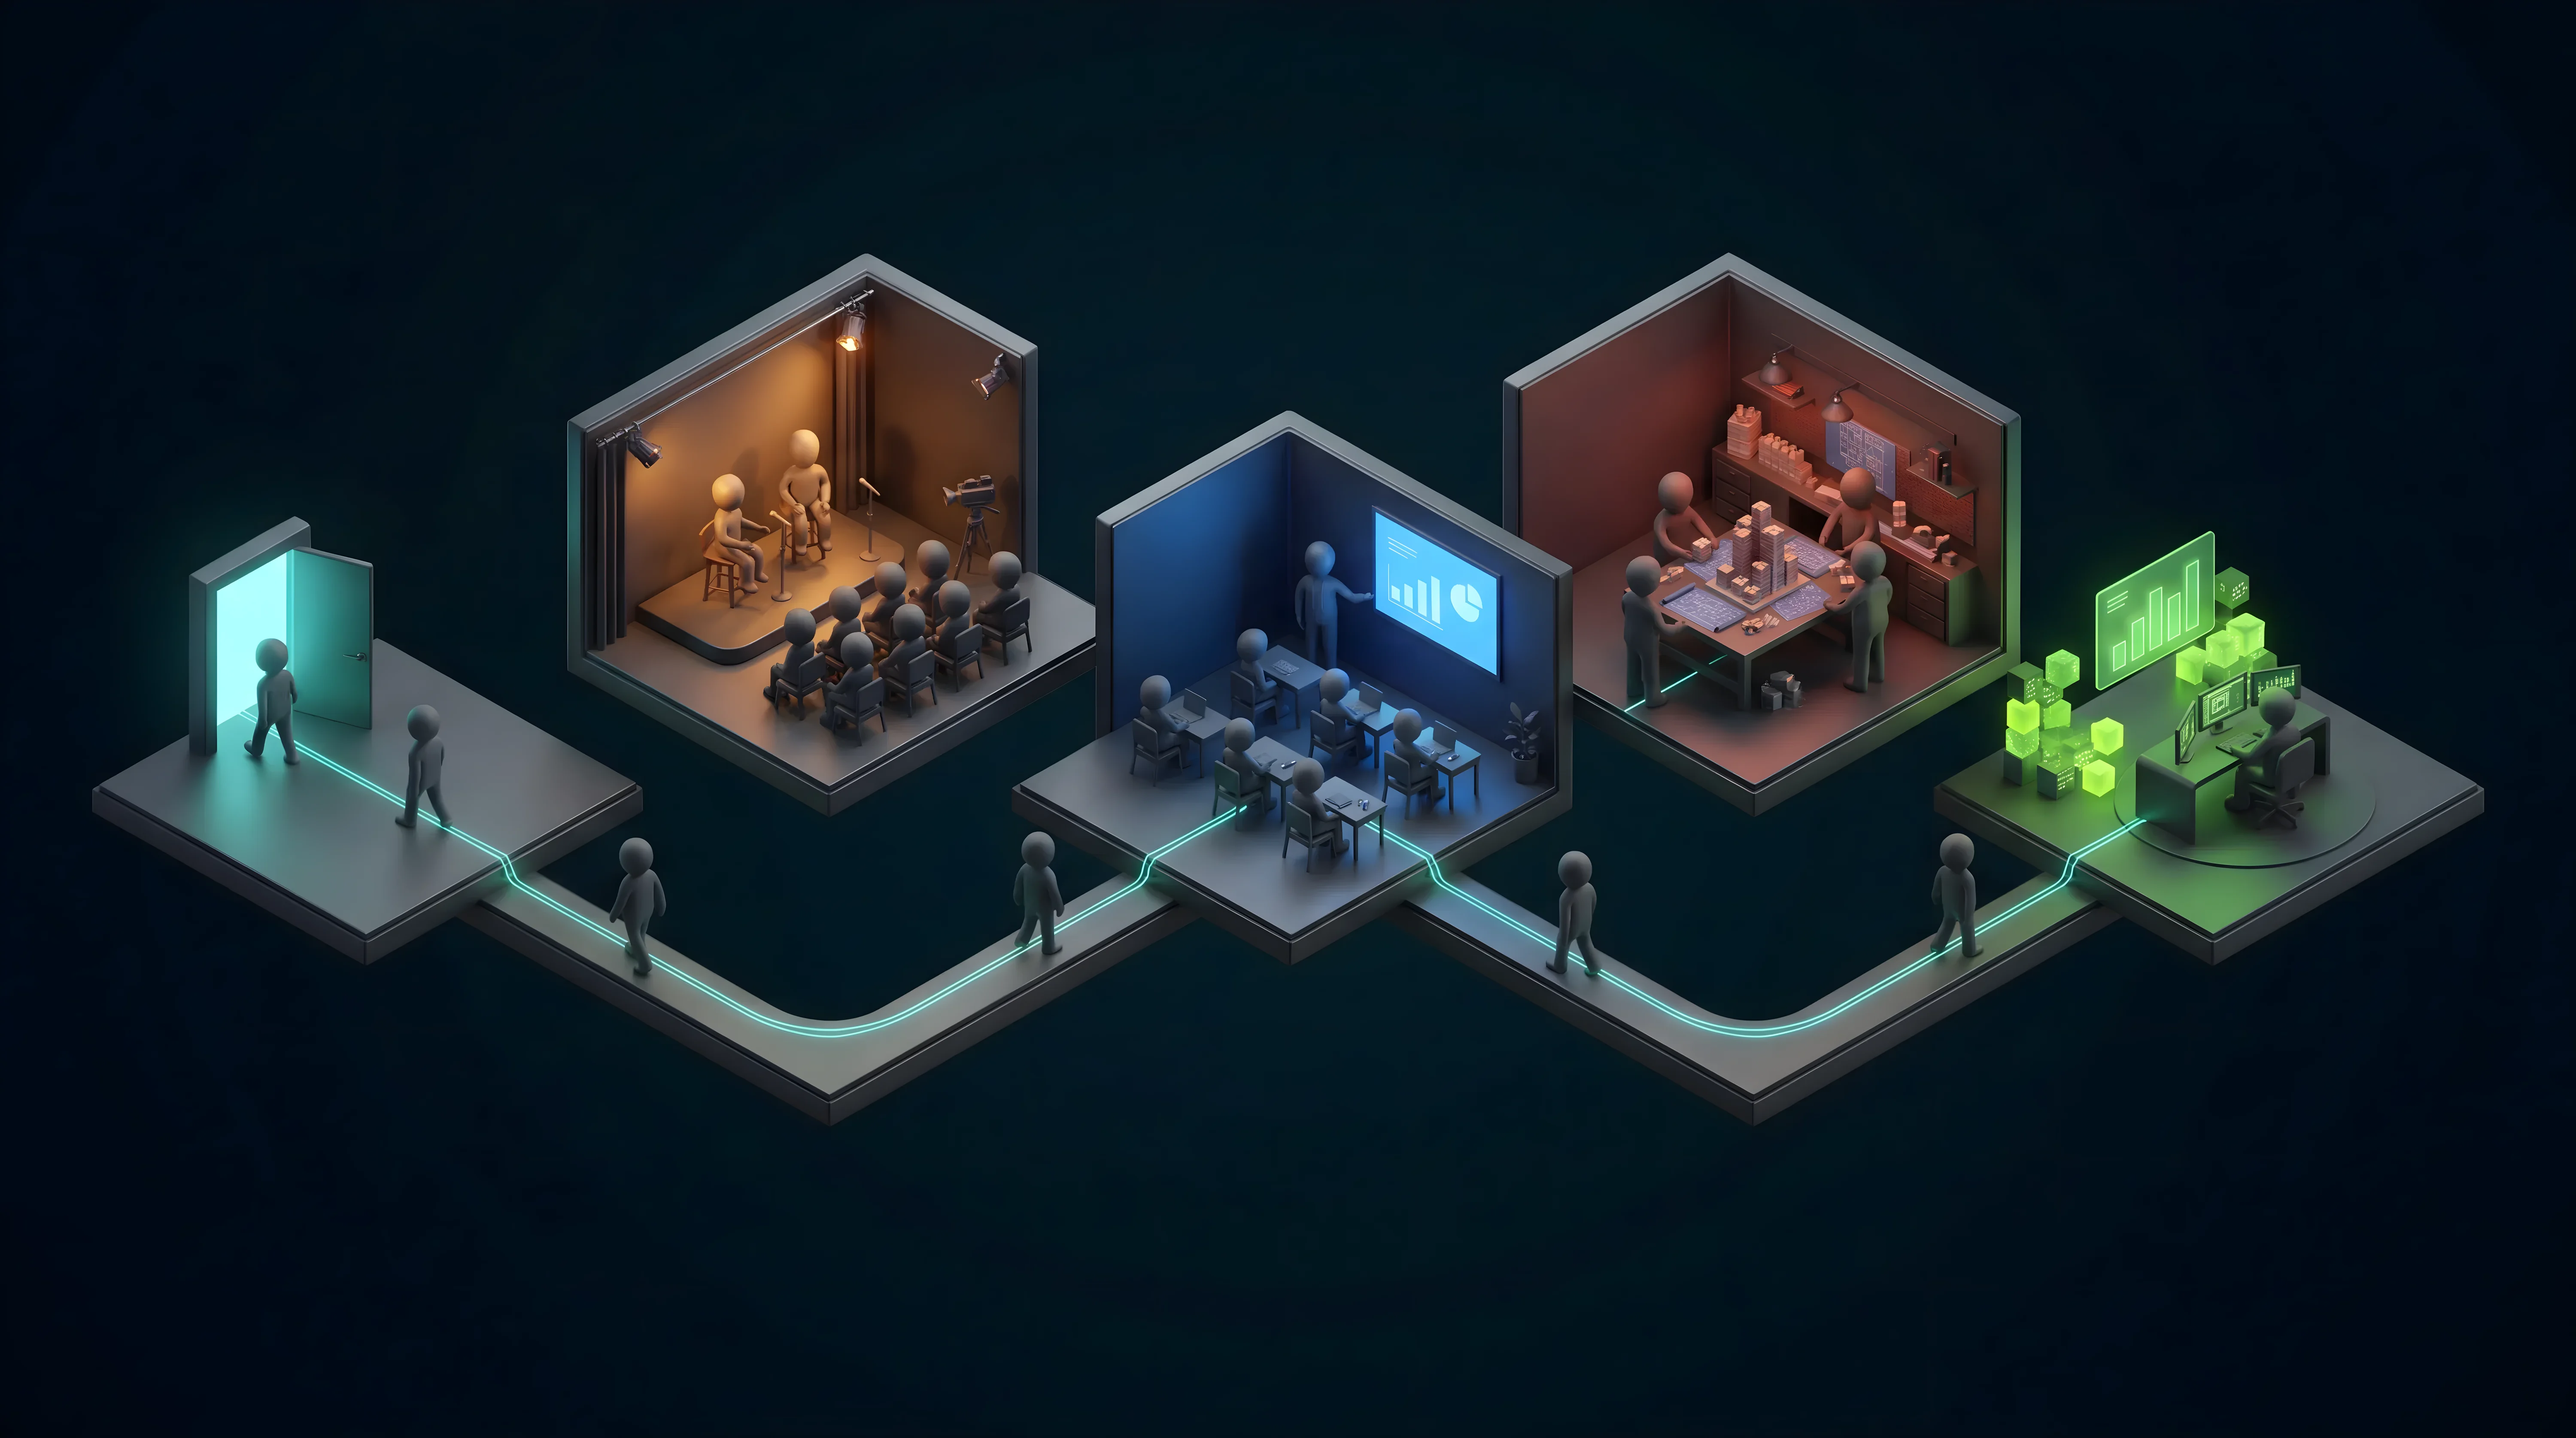
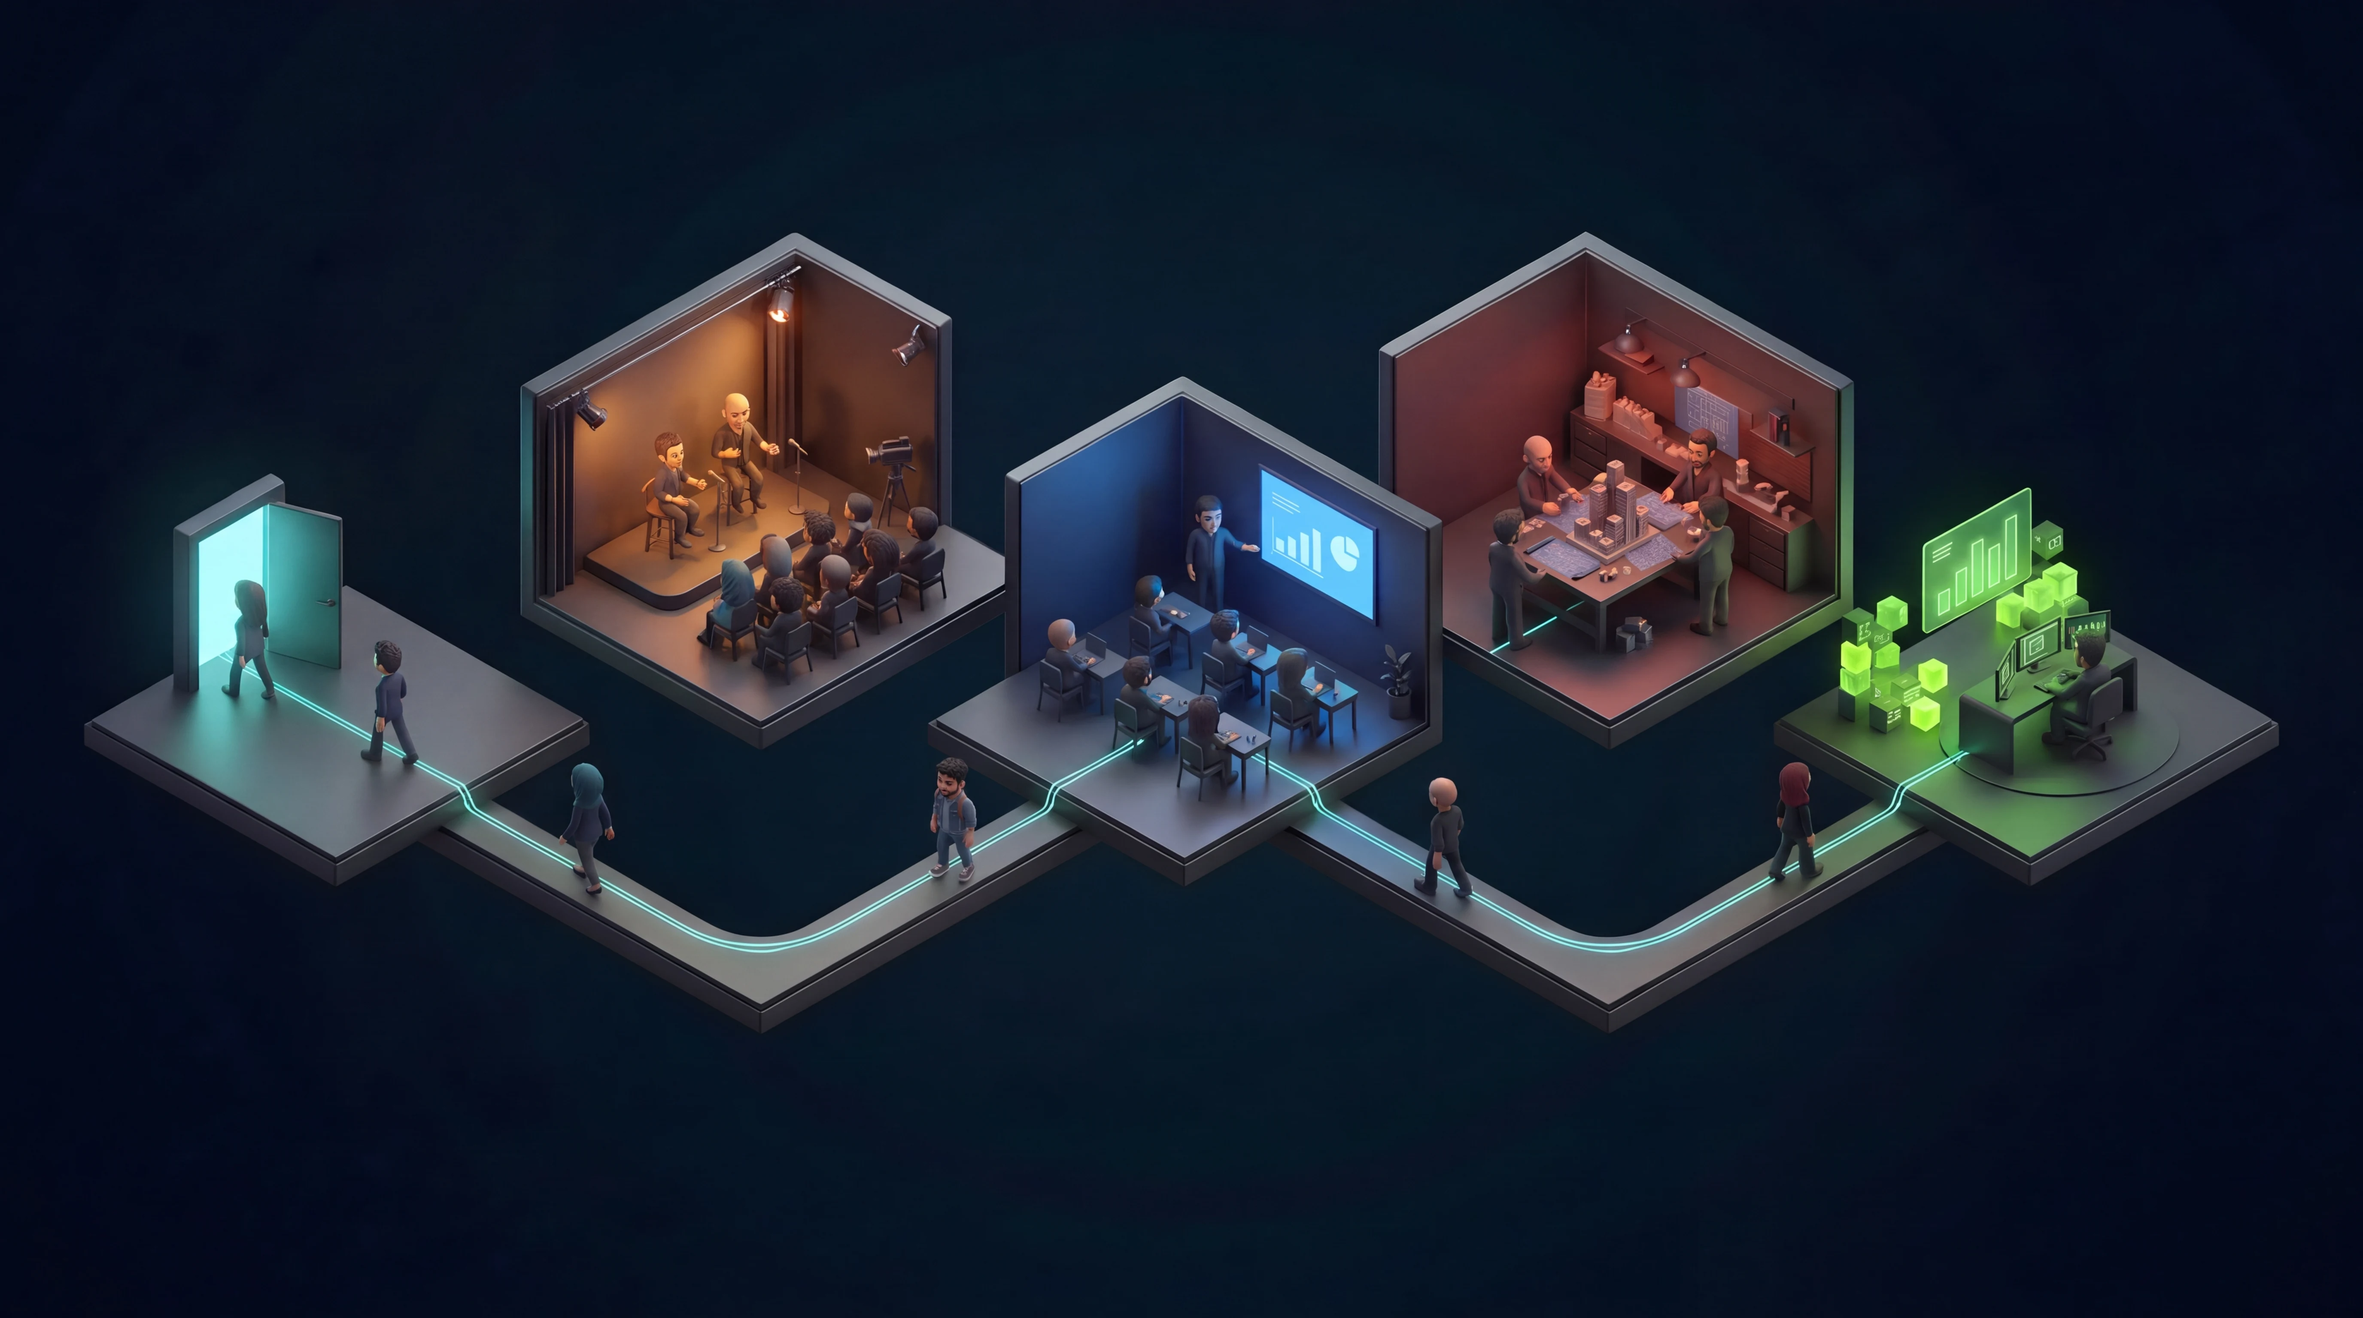
Landing: journey image with cartoon people, same layout
Regenerated at 5504x3072 with Ahmed, Karim and community members; rooms sit
where they did, so the camera stops are unchanged. Frame colour matched.

Claude-Session: https://claude.ai/code/session_018RCKuAqLNg43PyQqtjNNDi

diff --git a/src/components/landing/scene.tsx b/src/components/landing/scene.tsx
@@ -198,7 +198,7 @@ export function Journey({ src, width, height, steps, eyebrow, title }: { src: st
     <section ref={section} className="lp-journey relative" style={{ "--n": steps.length } as React.CSSProperties} aria-label={title}>
       <div className="sticky top-0 flex h-[100svh] items-center overflow-hidden">
         <div className="mx-auto grid w-full max-w-[1240px] items-center gap-4 px-5 pt-20 desk:gap-6 desk:pt-16 desk:grid-cols-[minmax(0,1.45fr)_minmax(0,1fr)] desk:gap-12 desk:px-8">
-          <div className="relative aspect-[16/11] overflow-hidden rounded-[22px] desk:rounded-[28px] border border-white/10 bg-[#010c17] shadow-[0_40px_100px_-40px_rgb(0_0_0/0.9)] desk:aspect-[5/4]">
+          <div className="relative aspect-[16/11] overflow-hidden rounded-[22px] desk:rounded-[28px] border border-white/10 bg-[#03091a] shadow-[0_40px_100px_-40px_rgb(0_0_0/0.9)] desk:aspect-[5/4]">
             {/* The scene fills the frame's width; the camera moves the chosen point (image %) to the centre and zooms. */}
             <div
               className="lp-cam absolute top-1/2 left-1/2 w-full"

diff --git a/src/app/site/page.tsx b/src/app/site/page.tsx
@@ -297,7 +297,7 @@ export default async function SitePage() {
 
         {/* ---------------------------------------------------------------- the journey (pinned) */}
         <div id="journey" className="scroll-mt-0">
-          <Journey src="/landing/journey.webp" width={4000} height={2233} steps={JOURNEY(app, join)} eyebrow="Walk through the house" title="Four spaces, one path through them." />
+          <Journey src="/landing/journey.webp" width={5504} height={3072} steps={JOURNEY(app, join)} eyebrow="Walk through the house" title="Four spaces, one path through them." />
         </div>
 
         {/* ---------------------------------------------------------------- each space, in depth */}
